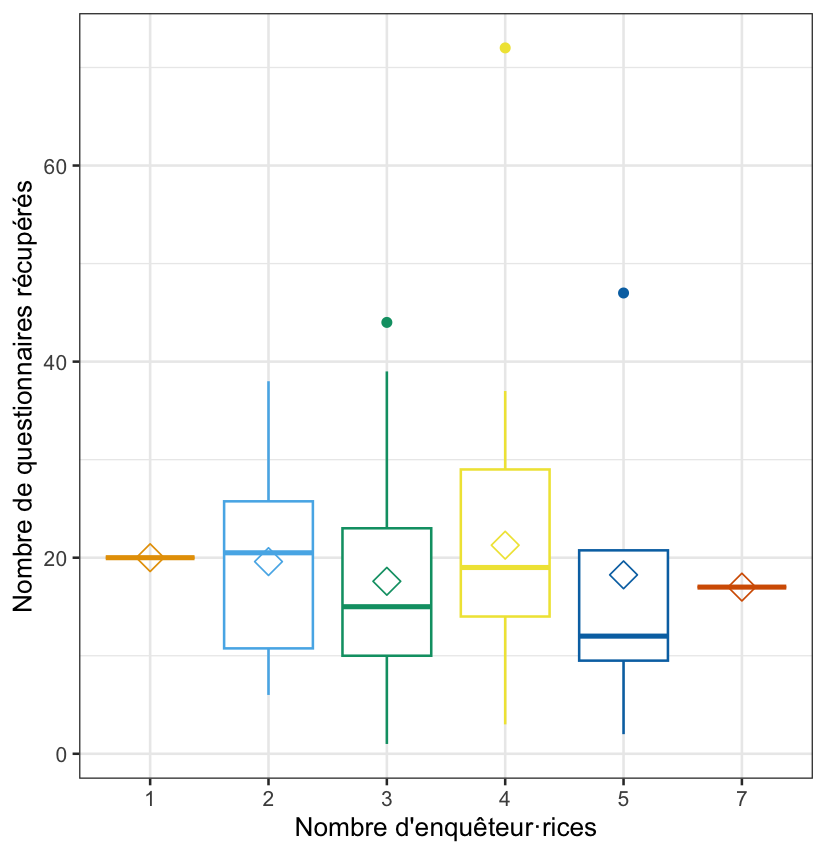
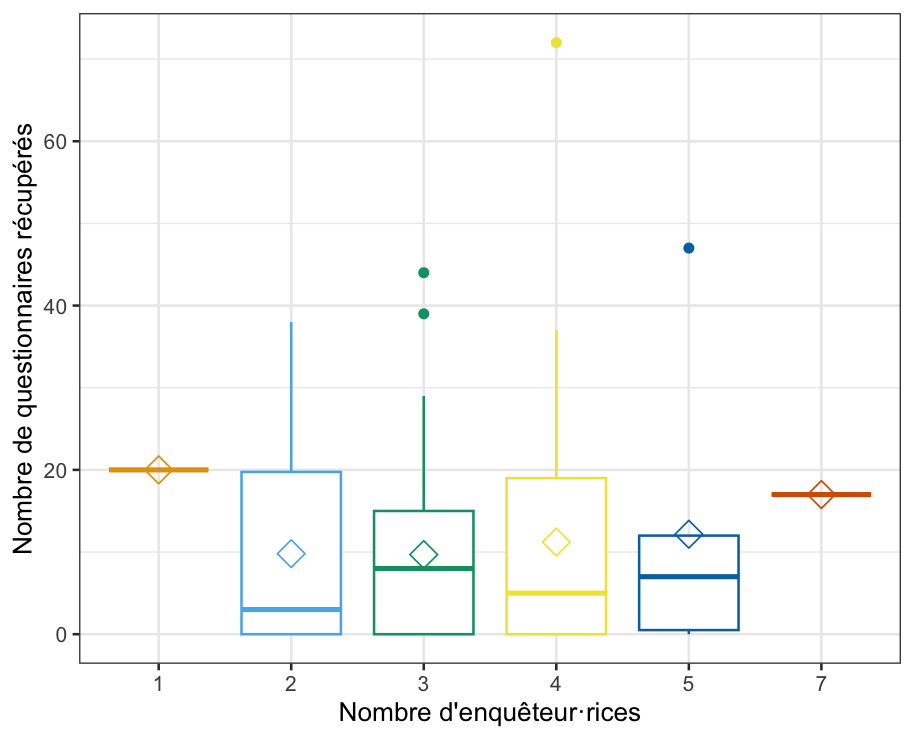
Update20/11/2024c

diff --git a/docs/fr/posts/2024-11-20-Passation-POF-UVSQ/index.html b/docs/fr/posts/2024-11-20-Passation-POF-UVSQ/index.html
@@ -202,7 +202,7 @@ ul.task-list li input[type="checkbox"] {
 <section id="une-durée-de-passation-raisonnable" class="level1">
 <h1>Une durée de passation raisonnable</h1>
 <p>L’objectif de cette année était clairement de ne pas avoir un questionnaire trop long, pour limiter les abandons de passation, et pour respecter notre promesse d’une passation d’une “quinzaine de minutes”. Avec une durée moyenne observée d’environ 19 minutes (comprenant l’entrée dans la salle, la négociation, les explications, la distribution des questionnaires, la passation, la collecte), nous restons un peu au-dessus de notre objectif, pour limiter au mieux le temps pris sur le cours des étudiant·es et des enseignant·es.</p>
-<p>Mais cette durée moyenne masque en réalité deux passations particulièrement longues :</p>
+<p>Cette durée moyenne masque en réalité deux passations particulièrement longues :</p>
 <ul>
 <li><p>Une passation a duré en tout 1h31, mais les enquêteur·rices ne sont pas resté·es de bout en bout dans la salle : l’enseignante a demandé aux enquêteur·rices de venir récupérer les questionnaires remplis à la fin du cours, et on peut donc penser que cette passation n’a pas perturbé le cours outre mesure.</p></li>
 <li><p>Une autre passation a duré en tout 50 minutes, mais les enquêteur·rices ont retrouvé un de leur enseignant du département de sociologie qui a souhaité mobiliser ce moment de passation pour nourrir sa séance, et là encore, la passation n’a pas perturbé le cours, au contraire.</p></li>
@@ -213,9 +213,10 @@ ul.task-list li input[type="checkbox"] {
 <section id="salles-vides-étudiantes-déjà-interrogées-et-refus" class="level1">
 <h1>Salles vides, étudiant·es déjà interrogé·es et refus</h1>
 <p>Toutes les salles tirées au sort n’ont pas été enquêtées : certaines étaient vides au cours du créneau de trois heures, parfois les étudiant·es dans la salle avaient déjà répondu au questionnaire dans un créneau précédent et dans d’autres cas les enquêteur·rices n’ont pas pu accéder à la salle de cours et faire passer le questionnaire. Les enseignant·es étaient simplement “invités” à laisser les enquêteur·rices effectuer la passation de l’enquête, mais cela n’avait rien d’obligatoire.</p>
-<p>Sur 132 salles enquêtées (sur un tirage au sort nous amenant théoriquement à enquêter au total 135 salles, quelques fiches se sont égarées en chemin, on peut penser qu’il s’agissait de salles vides, les enquêteur·rices ont eu le temps de passer dans toutes les salles), 29 salles n’étaient occupées par aucun cours sur le créneau où elles avaient été sélectionnées (2 salles sans cours mais avec des étudiant·es ont tout de même fait l’objet d’une passation). Le mercredi midi est un moment où les salles sont particulièrement vides…</p>
-<p>Dans les 103 salles enquêtées occupées par un cours, 72 ont pu faire l’objet d’une passation du questionnaire, soit un taux de réponse de 69 %. Ce taux de réponse montre bien que dans la grande majorité des cas, les enseignant·es (et les étudiant·es !) ont “joué le jeu”.</p>
-<p>Parmi les 31 salles avec cours non enquêtées, 11 correspondent à des salles où les étudiant·es ont déjà été enquêté·es dans un créneau précédent et 20 salles non enquêtées correspondent à des refus de l’enseignant·e. Les raisons de ces refus de passation qui ont été remontées sont principalement liées à une évaluation en cours, à la réalisation d’exposés difficiles à interrompre, à un cours dense dans un programme “en retard”. Quelques enseignant·es déclarent ne pas avoir été prévenus de la passation de l’enquête, malgré l’affichage réalisé par l’équipe enseignante dans la semaine précédente et les emails envoyés aux directions des UFRs.</p>
+<p>Sur 132 salles enquêtées (sur un tirage au sort nous amenant théoriquement à enquêter au total 135 salles, quelques fiches se sont égarées en chemin, on peut penser qu’il s’agissait de salles vides, les enquêteur·rices ont eu le temps de passer dans toutes les salles), 29 salles n’étaient occupées par aucun cours sur le créneau où elles avaient été sélectionnées (2 salles sans cours mais avec des étudiant·es ont tout de même fait l’objet d’une passation). Le mercredi midi est un moment où les salles sont particulièrement vides.</p>
+<p>Dans les 103 salles enquêtées occupées par un cours, 71 ont pu faire l’objet d’une passation du questionnaire, soit un taux de réponse de 69 %. Ce taux de réponse montre bien que dans la grande majorité des cas, les enseignant·es (et les étudiant·es !) ont “joué le jeu”. Dans 58% des cas, les enquêteur·rices ont d’ailleurs perçu que l’enseignant·e était “intéressé” par l’enquête ou son objet.</p>
+<p>Parmi les 32 salles avec cours non enquêtées, 11 correspondent à des salles où les étudiant·es ont déjà été enquêté·es dans un créneau précédent (ce cas est arrivé dès le premier jour d’enquête) et 2 correspondent à des salles où les enquêteur·rices ont semble-t-il d’elleux-mêmes renoncé à faire passer le questionnaire (l’enseignant·e n’était pas encore arrivé mais les étudiant·es présent·es disent avoir un contrôle, et les enquêteur·rices devaient repasser à la fin du cours mais iels n’ont pas eu le temps).</p>
+<p>Dans 19 salles, la non-passation correspond à des refus de passation explicites de la part de l’enseignant·e. Les raisons de ces refus de passation qui ont été remontées sont principalement liées à une évaluation en cours, à la réalisation d’exposés difficiles à interrompre, à un cours dense dans un programme “en retard”. Quelques enseignant·es déclarent ne pas avoir été prévenus de la passation de l’enquête, malgré l’affichage réalisé par l’équipe enseignante dans la semaine précédente et les emails envoyés aux directions des UFRs<a href="#fn2" class="footnote-ref" id="fnref2" role="doc-noteref"><sup>2</sup></a>.</p>
 <div class="quarto-figure quarto-figure-center">
 <figure class="figure">
 <p><img src="Photo1.jpg" class="img-fluid figure-img" alt="Quatre affiches de l'enquête POF 2024"></p>
@@ -225,13 +226,14 @@ ul.task-list li input[type="checkbox"] {
 </section>
 <section id="les-groupes-denquêteurrices" class="level1">
 <h1>Les groupes d’enquêteur·rices</h1>
-<p>Insrit·es à environ 7 ou 8 étudiant·es par créneau de passation, les enquêteur·rices étaient incité·es à se scinder en plusieurs groupes pour réaliser la passation. Ainsi, la majorité des passations a été réalisée par 3 ou 4 étudiant·es. On n’observe pas de lien entre le nombre d’enquêteur·rices par passation et le nombre de questionnaires collectés. Être en nombre permet de se rassurer, et en même temps, interrompre un cours à plusieurs peut être susceptible de davantage de refus ?</p>
+<p>Insrit·es à environ 7 ou 8 étudiant·es par créneau de passation, les enquêteur·rices étaient incité·es à se scinder en plusieurs groupes pour réaliser la passation. Ainsi, la majorité des passations a été réalisée par 3 (49 des salles enquêtées) ou 4 étudiant·es (55 salles enquêtées). Seule une passation a été réalisée par 1 étudiant et une passation par 7 étudiants. On n’observe pas de lien entre le nombre d’enquêteur·rices par passation et le nombre de questionnaires collectés (on aurait pu imaginer qu’être en nombre permet de se rassurer et d’être plus efficace, et en même temps, interrompre un cours à plusieurs peut être susceptible de davantage de refus)</p>
 <div class="quarto-figure quarto-figure-center">
 <figure class="figure">
-<p><img src="Fig-NbEnqNbQuest.png" class="img-fluid figure-img" alt="Les boites à moustaches sont uniformément distribuées suivant le nombre d'étudiant·es enquêteur·rices." width="525"></p>
-<figcaption class="figure-caption">Boîtes à moustaches du nombre de questionnaires collectés suivant le nombre d’enquêteur·rices par passation</figcaption>
+<p><img src="Fig-NbEnqNbQuest.png" class="img-fluid figure-img" alt="Les boites à moustaches sont uniformément distribuées suivant le nombre d'étudiant·es enquêteur·rices."></p>
+<figcaption class="figure-caption">Boîtes à moustaches du nombre de questionnaires collectés suivant le nombre d’enquêteur·rices par passation (les losanges représentent la moyenne)</figcaption>
 </figure>
 </div>
+<p>La plupart des groupes d’enquêteur·rices étaient majoritairement composés d’étudiantes (56 passations sur 132, dont 9 refus), exclusivement composés d’étudiantes (36 passations, dont 6 refus), voire parfaitement mixtes (30 passations, dont 3 refus). Une petite minorité de passation a été réalisée exclusivement par des étudiants (6 avec aucun refus) ou des groupes composés majoritairement d’étudiants (4 dont 1 refus).</p>
 </section>
 <section id="un-mot-sur-la-suite" class="level1">
 <h1>Un mot sur la suite</h1>
@@ -251,6 +253,7 @@ ul.task-list li input[type="checkbox"] {
 
 <ol>
 <li id="fn1"><p>L’UVSQ est étalée sur un territoire géographique relativement vaste que nous n’avons pas eu la prétention de couvrir, dans le souci de préserver les forces vives étudiantes, et parce que nous sommes encore des “bébés” au sein du collectif d’enquête national, pour n’y être que depuis la deuxième année !<a href="#fnref1" class="footnote-back" role="doc-backlink">↩</a></p></li>
+<li id="fn2"><p>On note une légère surreprésentation des enseignants hommes parmi les refus de passation. En effet, 8 refus sont 19 (42%) sont le fait d’enseignants hommes alors qu’ils représentent un tiers des enseignant·es dans les salles.<a href="#fnref2" class="footnote-back" role="doc-backlink">↩</a></p></li>
 </ol>
 </section></div></main> <!-- /main -->
 <script id="quarto-html-after-body" type="application/javascript">

diff --git a/docs/posts/2024-11-20-Passation-POF-UVSQ/index.html b/docs/posts/2024-11-20-Passation-POF-UVSQ/index.html
@@ -203,7 +203,7 @@ ul.task-list li input[type="checkbox"] {
 <section id="une-durée-de-passation-raisonnable" class="level1">
 <h1>Une durée de passation raisonnable</h1>
 <p>L’objectif de cette année était clairement de ne pas avoir un questionnaire trop long, pour limiter les abandons de passation, et pour respecter notre promesse d’une passation d’une “quinzaine de minutes”. Avec une durée moyenne observée d’environ 19 minutes (comprenant l’entrée dans la salle, la négociation, les explications, la distribution des questionnaires, la passation, la collecte), nous restons un peu au-dessus de notre objectif, pour limiter au mieux le temps pris sur le cours des étudiant·es et des enseignant·es.</p>
-<p>Mais cette durée moyenne masque en réalité deux passations particulièrement longues :</p>
+<p>Cette durée moyenne masque en réalité deux passations particulièrement longues :</p>
 <ul>
 <li><p>Une passation a duré en tout 1h31, mais les enquêteur·rices ne sont pas resté·es de bout en bout dans la salle : l’enseignante a demandé aux enquêteur·rices de venir récupérer les questionnaires remplis à la fin du cours, et on peut donc penser que cette passation n’a pas perturbé le cours outre mesure.</p></li>
 <li><p>Une autre passation a duré en tout 50 minutes, mais les enquêteur·rices ont retrouvé un de leur enseignant du département de sociologie qui a souhaité mobiliser ce moment de passation pour nourrir sa séance, et là encore, la passation n’a pas perturbé le cours, au contraire.</p></li>
@@ -214,9 +214,10 @@ ul.task-list li input[type="checkbox"] {
 <section id="salles-vides-étudiantes-déjà-interrogées-et-refus" class="level1">
 <h1>Salles vides, étudiant·es déjà interrogé·es et refus</h1>
 <p>Toutes les salles tirées au sort n’ont pas été enquêtées : certaines étaient vides au cours du créneau de trois heures, parfois les étudiant·es dans la salle avaient déjà répondu au questionnaire dans un créneau précédent et dans d’autres cas les enquêteur·rices n’ont pas pu accéder à la salle de cours et faire passer le questionnaire. Les enseignant·es étaient simplement “invités” à laisser les enquêteur·rices effectuer la passation de l’enquête, mais cela n’avait rien d’obligatoire.</p>
-<p>Sur 132 salles enquêtées (sur un tirage au sort nous amenant théoriquement à enquêter au total 135 salles, quelques fiches se sont égarées en chemin, on peut penser qu’il s’agissait de salles vides, les enquêteur·rices ont eu le temps de passer dans toutes les salles), 29 salles n’étaient occupées par aucun cours sur le créneau où elles avaient été sélectionnées (2 salles sans cours mais avec des étudiant·es ont tout de même fait l’objet d’une passation). Le mercredi midi est un moment où les salles sont particulièrement vides…</p>
-<p>Dans les 103 salles enquêtées occupées par un cours, 72 ont pu faire l’objet d’une passation du questionnaire, soit un taux de réponse de 69 %. Ce taux de réponse montre bien que dans la grande majorité des cas, les enseignant·es (et les étudiant·es !) ont “joué le jeu”.</p>
-<p>Parmi les 31 salles avec cours non enquêtées, 11 correspondent à des salles où les étudiant·es ont déjà été enquêté·es dans un créneau précédent et 20 salles non enquêtées correspondent à des refus de l’enseignant·e. Les raisons de ces refus de passation qui ont été remontées sont principalement liées à une évaluation en cours, à la réalisation d’exposés difficiles à interrompre, à un cours dense dans un programme “en retard”. Quelques enseignant·es déclarent ne pas avoir été prévenus de la passation de l’enquête, malgré l’affichage réalisé par l’équipe enseignante dans la semaine précédente et les emails envoyés aux directions des UFRs.</p>
+<p>Sur 132 salles enquêtées (sur un tirage au sort nous amenant théoriquement à enquêter au total 135 salles, quelques fiches se sont égarées en chemin, on peut penser qu’il s’agissait de salles vides, les enquêteur·rices ont eu le temps de passer dans toutes les salles), 29 salles n’étaient occupées par aucun cours sur le créneau où elles avaient été sélectionnées (2 salles sans cours mais avec des étudiant·es ont tout de même fait l’objet d’une passation). Le mercredi midi est un moment où les salles sont particulièrement vides.</p>
+<p>Dans les 103 salles enquêtées occupées par un cours, 71 ont pu faire l’objet d’une passation du questionnaire, soit un taux de réponse de 69 %. Ce taux de réponse montre bien que dans la grande majorité des cas, les enseignant·es (et les étudiant·es !) ont “joué le jeu”. Dans 58% des cas, les enquêteur·rices ont d’ailleurs perçu que l’enseignant·e était “intéressé” par l’enquête ou son objet.</p>
+<p>Parmi les 32 salles avec cours non enquêtées, 11 correspondent à des salles où les étudiant·es ont déjà été enquêté·es dans un créneau précédent (ce cas est arrivé dès le premier jour d’enquête) et 2 correspondent à des salles où les enquêteur·rices ont semble-t-il d’elleux-mêmes renoncé à faire passer le questionnaire (l’enseignant·e n’était pas encore arrivé mais les étudiant·es présent·es disent avoir un contrôle, et les enquêteur·rices devaient repasser à la fin du cours mais iels n’ont pas eu le temps).</p>
+<p>Dans 19 salles, la non-passation correspond à des refus de passation explicites de la part de l’enseignant·e. Les raisons de ces refus de passation qui ont été remontées sont principalement liées à une évaluation en cours, à la réalisation d’exposés difficiles à interrompre, à un cours dense dans un programme “en retard”. Quelques enseignant·es déclarent ne pas avoir été prévenus de la passation de l’enquête, malgré l’affichage réalisé par l’équipe enseignante dans la semaine précédente et les emails envoyés aux directions des UFRs<a href="#fn2" class="footnote-ref" id="fnref2" role="doc-noteref"><sup>2</sup></a>.</p>
 <div class="quarto-figure quarto-figure-center">
 <figure class="figure">
 <p><img src="Photo1.jpg" class="img-fluid figure-img" alt="Quatre affiches de l'enquête POF 2024"></p>
@@ -226,13 +227,14 @@ ul.task-list li input[type="checkbox"] {
 </section>
 <section id="les-groupes-denquêteurrices" class="level1">
 <h1>Les groupes d’enquêteur·rices</h1>
-<p>Insrit·es à environ 7 ou 8 étudiant·es par créneau de passation, les enquêteur·rices étaient incité·es à se scinder en plusieurs groupes pour réaliser la passation. Ainsi, la majorité des passations a été réalisée par 3 ou 4 étudiant·es. On n’observe pas de lien entre le nombre d’enquêteur·rices par passation et le nombre de questionnaires collectés. Être en nombre permet de se rassurer, et en même temps, interrompre un cours à plusieurs peut être susceptible de davantage de refus ?</p>
+<p>Insrit·es à environ 7 ou 8 étudiant·es par créneau de passation, les enquêteur·rices étaient incité·es à se scinder en plusieurs groupes pour réaliser la passation. Ainsi, la majorité des passations a été réalisée par 3 (49 des salles enquêtées) ou 4 étudiant·es (55 salles enquêtées). Seule une passation a été réalisée par 1 étudiant et une passation par 7 étudiants. On n’observe pas de lien entre le nombre d’enquêteur·rices par passation et le nombre de questionnaires collectés (on aurait pu imaginer qu’être en nombre permet de se rassurer et d’être plus efficace, et en même temps, interrompre un cours à plusieurs peut être susceptible de davantage de refus)</p>
 <div class="quarto-figure quarto-figure-center">
 <figure class="figure">
-<p><img src="Fig-NbEnqNbQuest.png" class="img-fluid figure-img" alt="Les boites à moustaches sont uniformément distribuées suivant le nombre d'étudiant·es enquêteur·rices." width="525"></p>
-<figcaption class="figure-caption">Boîtes à moustaches du nombre de questionnaires collectés suivant le nombre d’enquêteur·rices par passation</figcaption>
+<p><img src="Fig-NbEnqNbQuest.png" class="img-fluid figure-img" alt="Les boites à moustaches sont uniformément distribuées suivant le nombre d'étudiant·es enquêteur·rices."></p>
+<figcaption class="figure-caption">Boîtes à moustaches du nombre de questionnaires collectés suivant le nombre d’enquêteur·rices par passation (les losanges représentent la moyenne)</figcaption>
 </figure>
 </div>
+<p>La plupart des groupes d’enquêteur·rices étaient majoritairement composés d’étudiantes (56 passations sur 132, dont 9 refus), exclusivement composés d’étudiantes (36 passations, dont 6 refus), voire parfaitement mixtes (30 passations, dont 3 refus). Une petite minorité de passation a été réalisée exclusivement par des étudiants (6 avec aucun refus) ou des groupes composés majoritairement d’étudiants (4 dont 1 refus).</p>
 </section>
 <section id="un-mot-sur-la-suite" class="level1">
 <h1>Un mot sur la suite</h1>
@@ -252,6 +254,7 @@ ul.task-list li input[type="checkbox"] {
 
 <ol>
 <li id="fn1"><p>L’UVSQ est étalée sur un territoire géographique relativement vaste que nous n’avons pas eu la prétention de couvrir, dans le souci de préserver les forces vives étudiantes, et parce que nous sommes encore des “bébés” au sein du collectif d’enquête national, pour n’y être que depuis la deuxième année !<a href="#fnref1" class="footnote-back" role="doc-backlink">↩</a></p></li>
+<li id="fn2"><p>On note une légère surreprésentation des enseignants hommes parmi les refus de passation. En effet, 8 refus sont 19 (42%) sont le fait d’enseignants hommes alors qu’ils représentent un tiers des enseignant·es dans les salles.<a href="#fnref2" class="footnote-back" role="doc-backlink">↩</a></p></li>
 </ol>
 </section></div></main> <!-- /main -->
 <script id="quarto-html-after-body" type="application/javascript">

diff --git a/docs/fr/posts.html b/docs/fr/posts.html
@@ -188,7 +188,7 @@ ul.task-list li input[type="checkbox"] {
 
 <div class="quarto-listing quarto-listing-container-grid" id="listing-listing">
 <div class="list grid quarto-listing-cols-3">
-<div class="g-col-1" data-index="0" data-categories="POF,UVSQ,cours" data-listing-date-sort="1732057200000" data-listing-file-modified-sort="1732139205938" data-listing-date-modified-sort="NaN" data-listing-reading-time-sort="6">
+<div class="g-col-1" data-index="0" data-categories="POF,UVSQ,cours" data-listing-date-sort="1732057200000" data-listing-file-modified-sort="1732144683725" data-listing-date-modified-sort="NaN" data-listing-reading-time-sort="7">
 <a href="./posts/2024-11-20-Passation-POF-UVSQ/index.html" class="quarto-grid-link">
 <div class="quarto-grid-item card h-100 card-left">
 <p class="card-img-top">

diff --git a/docs/posts.html b/docs/posts.html
@@ -188,7 +188,7 @@ ul.task-list li input[type="checkbox"] {
 
 <div class="quarto-listing quarto-listing-container-grid" id="listing-listing">
 <div class="list grid quarto-listing-cols-3">
-<div class="g-col-1" data-index="0" data-categories="POF,UVSQ,cours" data-listing-date-sort="1732057200000" data-listing-file-modified-sort="1732139205938" data-listing-date-modified-sort="NaN" data-listing-reading-time-sort="6">
+<div class="g-col-1" data-index="0" data-categories="POF,UVSQ,cours" data-listing-date-sort="1732057200000" data-listing-file-modified-sort="1732144683725" data-listing-date-modified-sort="NaN" data-listing-reading-time-sort="7">
 <a href="./posts/2024-11-20-Passation-POF-UVSQ/index.html" class="quarto-grid-link">
 <div class="quarto-grid-item card h-100 card-left">
 <p class="card-img-top">
